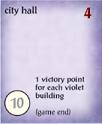
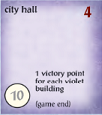
Asset Changes
Slight changes to assets placement and sizes

diff --git a/classes.py b/classes.py
@@ -171,7 +171,7 @@ class IndigoPlant(pygame.sprite.Sprite):
 		self.gs = gs
 		self.image = pygame.image.load("assets\\indigo_plant.png")
 		self.rect = self.image.get_rect()
-		self.rect.center = (self.gs.width, (11/112)*self.gs.height)
+		self.rect.center = ((259/640)*self.gs.width, (11/112)*self.gs.height)
 
 class SugarMill(pygame.sprite.Sprite):
 	def __init__(self, gs=None):
@@ -180,7 +180,7 @@ class SugarMill(pygame.sprite.Sprite):
 		self.gs = gs
 		self.image = pygame.image.load("assets\\sugar_mill.png")
 		self.rect = self.image.get_rect()
-		self.rect.center = (self.gs.width, (21/112)*self.gs.height)
+		self.rect.center = ((259/640)*self.gs.width, (21/112)*self.gs.height)
 
 class Hospice(pygame.sprite.Sprite):
 	def __init__(self, gs=None):
@@ -189,7 +189,7 @@ class Hospice(pygame.sprite.Sprite):
 		self.gs = gs
 		self.image = pygame.image.load("assets\\hospice.png")
 		self.rect = self.image.get_rect()
-		self.rect.center = (self.gs.width, (31/112)*self.gs.height)
+		self.rect.center = ((259/640)*self.gs.width, (31/112)*self.gs.height)
 
 class Office(pygame.sprite.Sprite):
 	def __init__(self, gs=None):
@@ -198,7 +198,7 @@ class Office(pygame.sprite.Sprite):
 		self.gs = gs
 		self.image = pygame.image.load("assets\\office.png")
 		self.rect = self.image.get_rect()
-		self.rect.center = (self.gs.width, (41/112)*self.gs.height)
+		self.rect.center = ((259/640)*self.gs.width, (41/112)*self.gs.height)
 
 class LargeMarket(pygame.sprite.Sprite):
 	def __init__(self, gs=None):
@@ -207,7 +207,7 @@ class LargeMarket(pygame.sprite.Sprite):
 		self.gs = gs
 		self.image = pygame.image.load("assets\\large_market.png")
 		self.rect = self.image.get_rect()
-		self.rect.center = (self.gs.width, (51/112)*self.gs.height)
+		self.rect.center = ((259/640)*self.gs.width, (51/112)*self.gs.height)
 
 class LargeWarehouse(pygame.sprite.Sprite):
 	def __init__(self, gs=None):
@@ -216,7 +216,7 @@ class LargeWarehouse(pygame.sprite.Sprite):
 		self.gs = gs
 		self.image = pygame.image.load("assets\\large_warehouse.png")
 		self.rect = self.image.get_rect()
-		self.rect.center = (self.gs.width, (61/112)*self.gs.height)
+		self.rect.center = ((259/640)*self.gs.width, (61/112)*self.gs.height)
 
 class TobaccoStorage(pygame.sprite.Sprite):
 	def __init__(self, gs=None):
@@ -279,7 +279,7 @@ class GuildHall(pygame.sprite.Sprite):
 		self.gs = gs
 		self.image = pygame.image.load("assets\\guild_hall.png")
 		self.rect = self.image.get_rect()
-		self.rect.center = (self.gs.width, (11/112)*self.gs.height)
+		self.rect.center = (self.gs.width, (16/112)*self.gs.height)
 
 class Residence(pygame.sprite.Sprite):
 	def __init__(self, gs=None):
@@ -288,7 +288,7 @@ class Residence(pygame.sprite.Sprite):
 		self.gs = gs
 		self.image = pygame.image.load("assets\\residence.png")
 		self.rect = self.image.get_rect()
-		self.rect.center = (self.gs.width, (21/112)*self.gs.height)
+		self.rect.center = (self.gs.width, (31/112)*self.gs.height)
 
 class Fortress(pygame.sprite.Sprite):
 	def __init__(self, gs=None):
@@ -297,7 +297,7 @@ class Fortress(pygame.sprite.Sprite):
 		self.gs = gs
 		self.image = pygame.image.load("assets\\fortress.png")
 		self.rect = self.image.get_rect()
-		self.rect.center = (self.gs.width, (31/112)*self.gs.height)
+		self.rect.center = (self.gs.width, (46/112)*self.gs.height)
 
 class CustomsHouse(pygame.sprite.Sprite):
 	def __init__(self, gs=None):
@@ -306,7 +306,7 @@ class CustomsHouse(pygame.sprite.Sprite):
 		self.gs = gs
 		self.image = pygame.image.load("assets\\customs_house.png")
 		self.rect = self.image.get_rect()
-		self.rect.center = (self.gs.width, (41/112)*self.gs.height)
+		self.rect.center = (self.gs.width, (61/112)*self.gs.height)
 
 class CityHall(pygame.sprite.Sprite):
 	def __init__(self, gs=None):
@@ -315,4 +315,4 @@ class CityHall(pygame.sprite.Sprite):
 		self.gs = gs
 		self.image = pygame.image.load("assets\\city_hall.png")
 		self.rect = self.image.get_rect()
-		self.rect.center = (self.gs.width, (51/112)*self.gs.height)
+		self.rect.center = (self.gs.width, (76/112)*self.gs.height)

diff --git a/puertorico.py b/puertorico.py
@@ -93,13 +93,23 @@ class GameSpace:
 		self.hacienda = Hacienda(self)
 		self.constructionhut = ConstructionHut(self)
 		self.smallwarehouse = SmallWarehouse(self)
-
+		self.indigoplant = IndigoPlant(self)
+		self.sugarmill = SugarMill(self)
+		self.hospice = Hospice(self)
+		self.office = Office(self)
+		self.largemarket = LargeMarket(self)
+		self.largewarehouse = LargeWarehouse(self)
 		self.tobaccostorage = TobaccoStorage(self)
 		self.coffeeroaster = CoffeeRoaster(self)
 		self.university = University(self)
 		self.factory = Factory(self)
 		self.harbor = Harbor(self)
 		self.wharf = Wharf(self)
+		self.guildhall = GuildHall(self)
+		self.residence = Residence(self)
+		self.fortress = Fortress(self)
+		self.customshouse = CustomsHouse(self)
+		self.cityhall = CityHall(self)
 
 		if self.numPlayers == 3:
 			self.vpoints = 75
@@ -163,12 +173,23 @@ class GameSpace:
 			self.screen.blit(self.hacienda.image, self.hacienda.rect)
 			self.screen.blit(self.constructionhut.image, self.constructionhut.rect)
 			self.screen.blit(self.smallwarehouse.image, self.smallwarehouse.rect)
+			self.screen.blit(self.indigoplant.image, self.indigoplant.rect)
+			self.screen.blit(self.sugarmill.image, self.sugarmill.rect)
+			self.screen.blit(self.hospice.image, self.hospice.rect)
+			self.screen.blit(self.office.image, self.office.rect)
+			self.screen.blit(self.largemarket.image, self.largemarket.rect)
+			self.screen.blit(self.largewarehouse.image, self.largewarehouse.rect)
 			self.screen.blit(self.tobaccostorage.image, self.tobaccostorage.rect)
 			self.screen.blit(self.coffeeroaster.image, self.coffeeroaster.rect)
 			self.screen.blit(self.university.image, self.university.rect)
 			self.screen.blit(self.factory.image, self.factory.rect)
 			self.screen.blit(self.harbor.image, self.harbor.rect)
 			self.screen.blit(self.wharf.image, self.wharf.rect)
+			self.screen.blit(self.guildhall.image, self.guildhall.rect)
+			self.screen.blit(self.residence.image, self.residence.rect)
+			self.screen.blit(self.fortress.image, self.fortress.rect)
+			self.screen.blit(self.customshouse.image, self.customshouse.rect)
+			self.screen.blit(self.cityhall.image, self.cityhall.rect)
 
 			pygame.display.flip()
 
